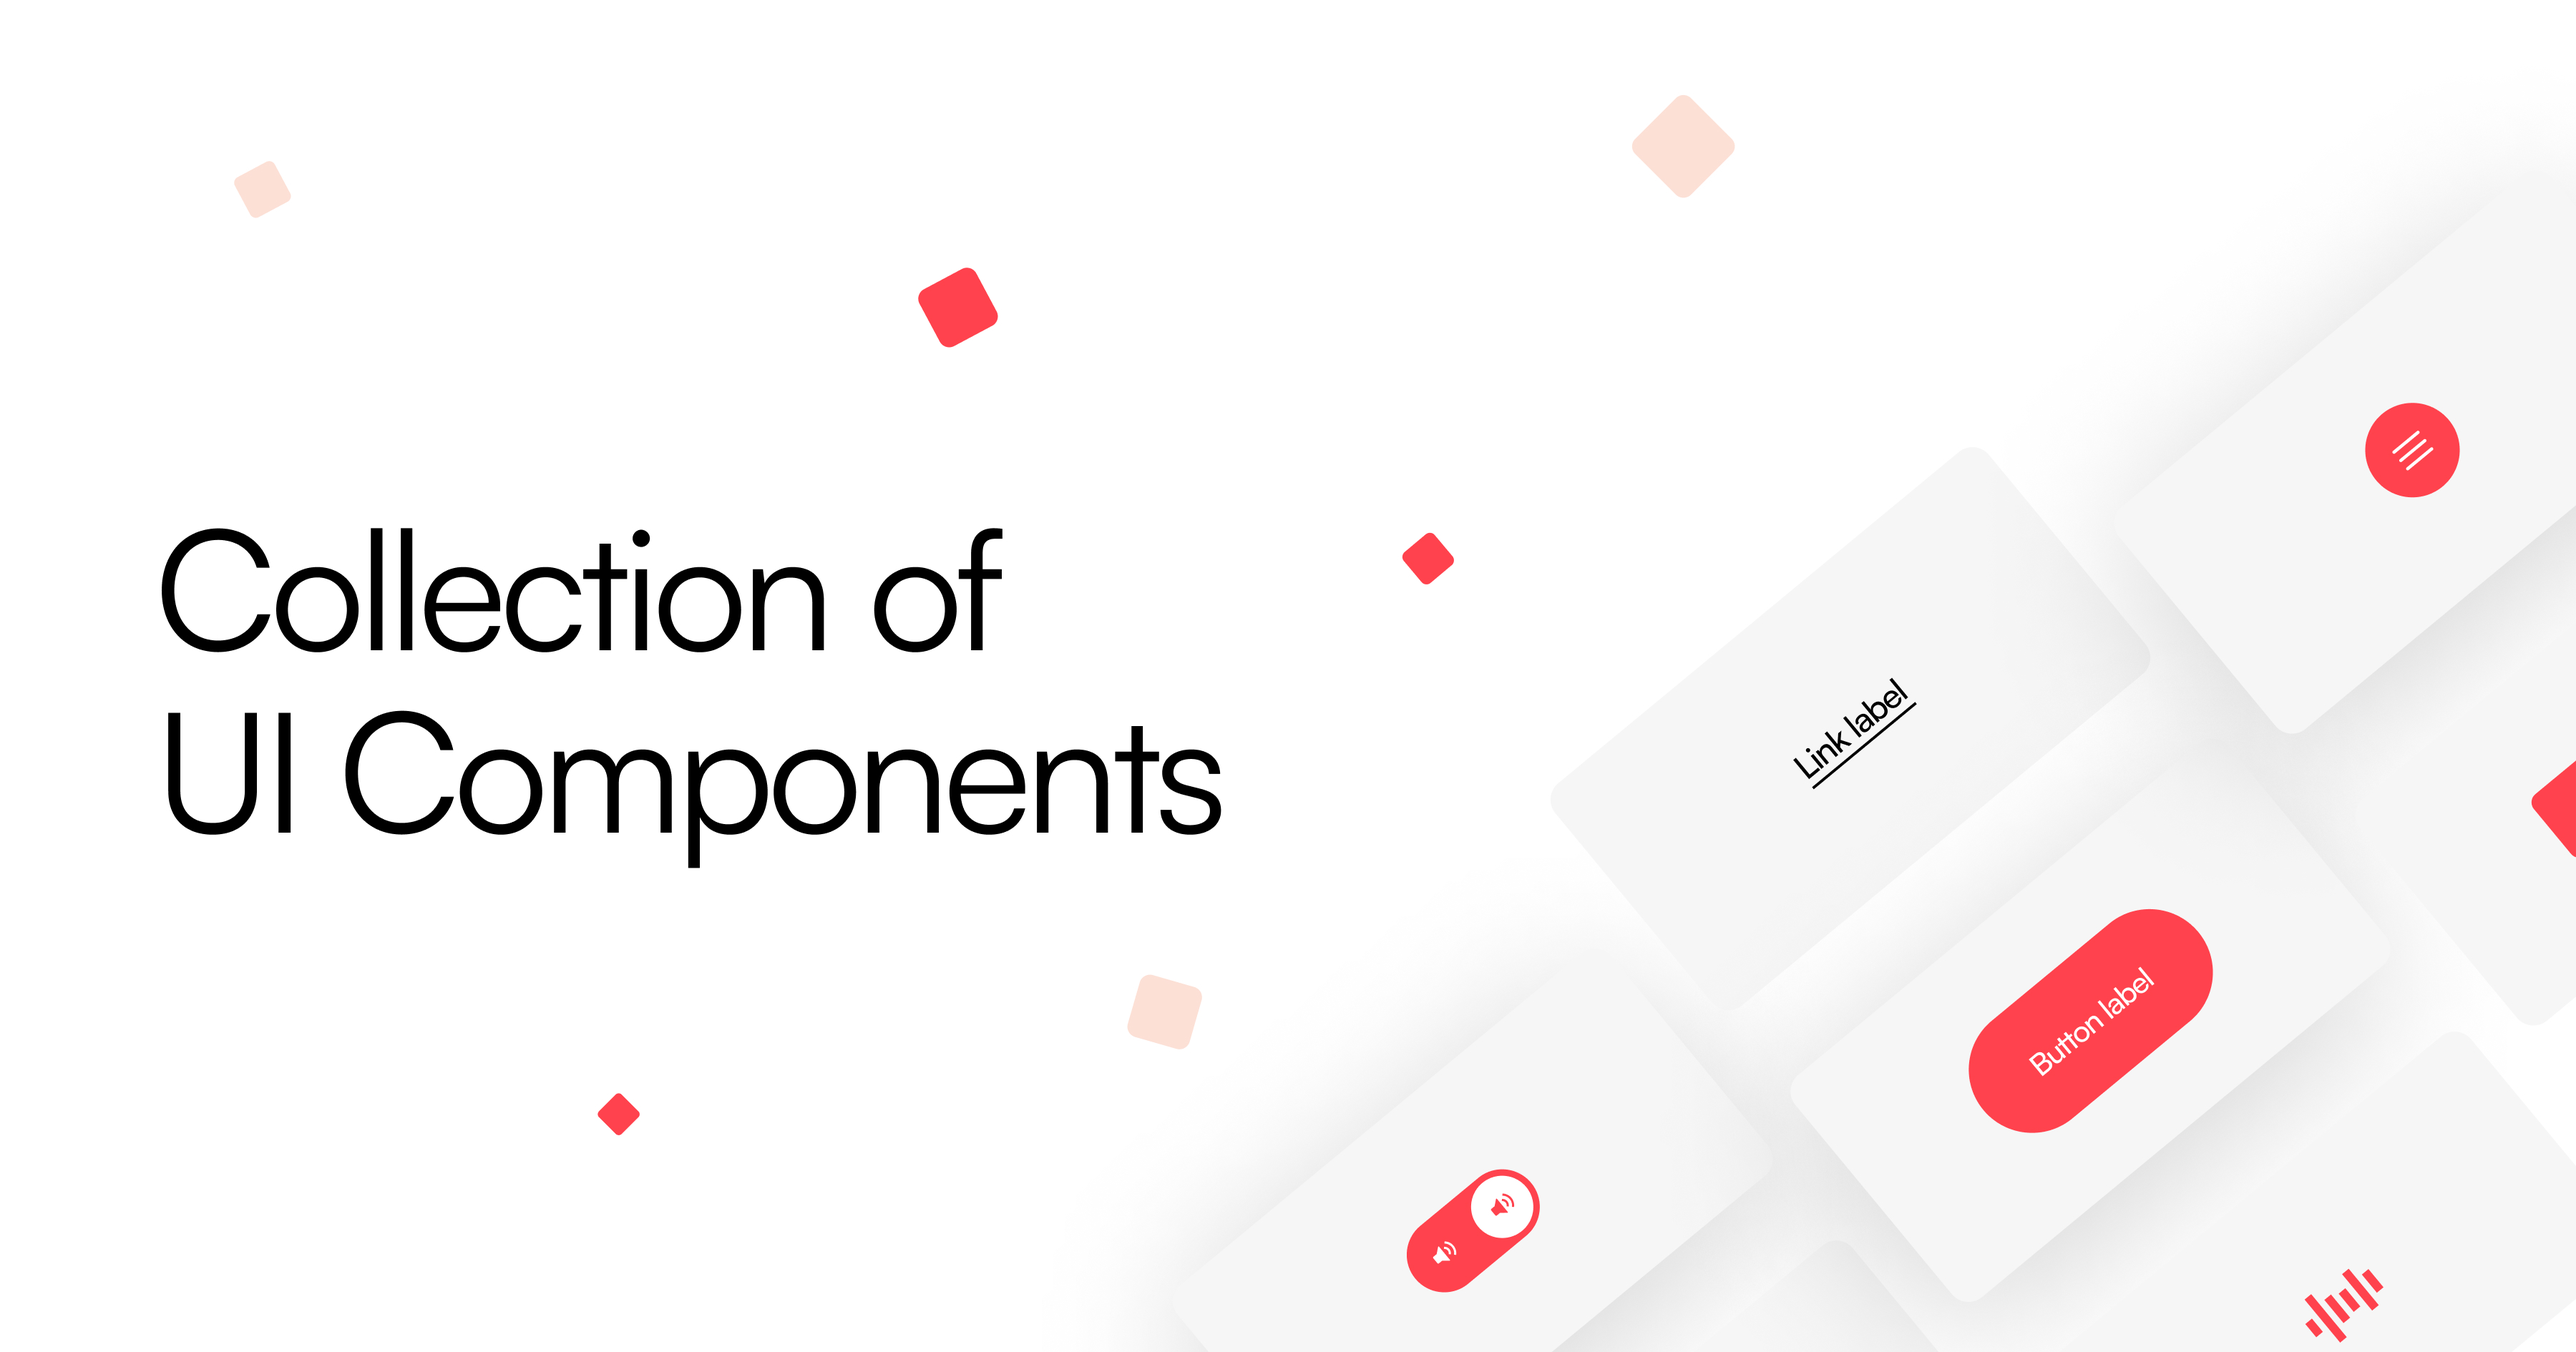
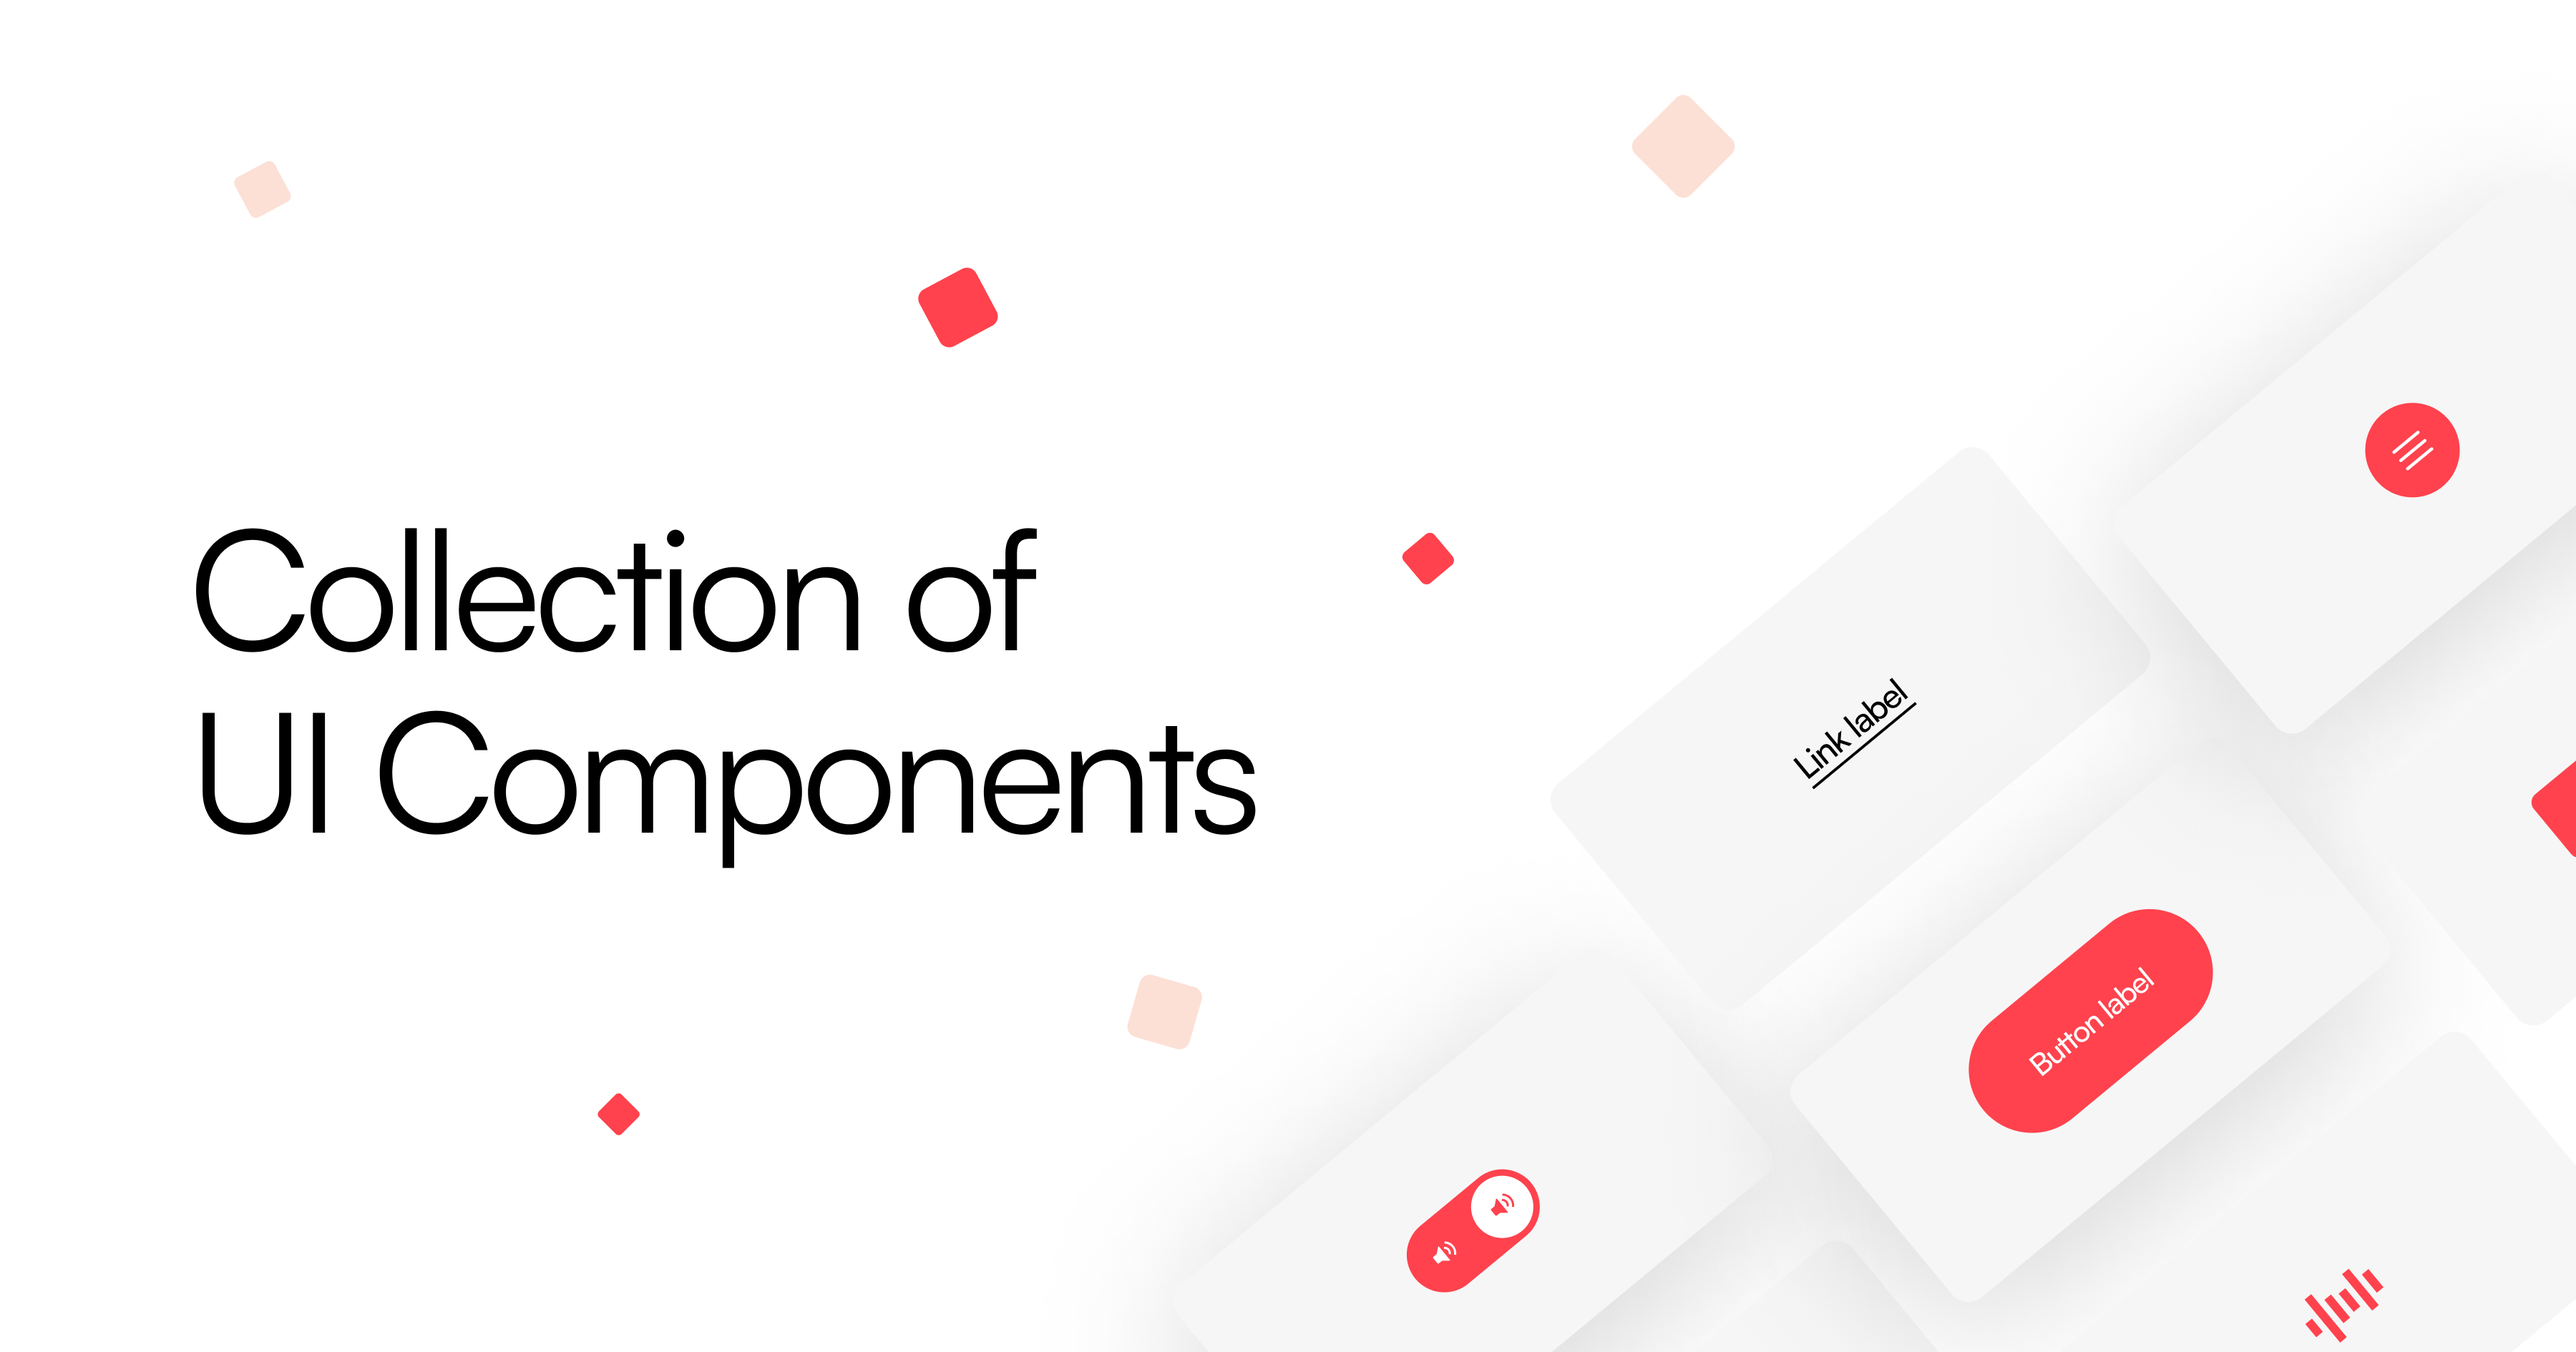
Added ToggleSoundCheckbox

Changed region(s): [[0.0622, 0.5307, 0.4978, 0.6243], [0.0622, 0.3746, 0.4044, 0.4995]]

diff --git a/src/components/UIComponents/ToggleSoundCheckbox/ToggleSoundCheckbox.module.scss b/src/components/UIComponents/ToggleSoundCheckbox/ToggleSoundCheckbox.module.scss
@@ -1,0 +1,154 @@
+@import '../../../references.scss';
+
+.root {
+  position: relative;
+  width: toEm($size-96);
+  height: toEm($size-96 / 2);
+  border-radius: toEm($size-64);
+  background-color: $color-red;
+  cursor: pointer;
+  overflow: hidden;
+
+  @media (min-width: $breakpoint-tablet) {
+    width: toEm($size-136);
+    height: toEm($size-136 / 2);
+  }
+
+  .input {
+    position: absolute;
+    width: 0;
+    height: 0;
+    opacity: 0;
+  }
+
+  .marker {
+    position: absolute;
+    top: 0;
+    left: 0;
+    transform: translateX(100%);
+    width: toEm($size-96 / 2);
+    height: toEm($size-96 / 2);
+    border: toEm(4) solid $color-red;
+    border-radius: 50%;
+    transition: transform 0.25s cubic-bezier(0.645, 0.045, 0.355, 1);
+    background-color: $color-white;
+
+    @media (min-width: $breakpoint-tablet) {
+      width: toEm($size-136 / 2);
+      height: toEm($size-136 / 2);
+      border-width: toEm(6);
+    }
+  }
+
+  .input:checked ~ .marker {
+    transform: translateX(0%);
+  }
+
+  span {
+    position: relative;
+    display: inline-flex;
+    justify-content: center;
+    align-items: center;
+    width: toEm($size-96 / 2);
+    height: toEm($size-96 / 2);
+    transition: color 0.3s ease;
+    will-change: transform;
+
+    @media (min-width: $breakpoint-tablet) {
+      width: toEm($size-136 / 2);
+      height: toEm($size-136 / 2);
+    }
+
+    &:nth-child(3) {
+      color: $color-white;
+    }
+    &:nth-child(4) {
+      color: $color-red;
+    }
+
+    svg {
+      width: toEm($size-16);
+      height: toEm($size-16);
+
+      @media (min-width: $breakpoint-tablet) {
+        width: toEm($size-22);
+        height: toEm($size-22);
+      }
+    }
+  }
+
+  .input:checked ~ span {
+    &:nth-child(3) {
+      color: $color-red;
+    }
+    &:nth-child(4) {
+      color: $color-white;
+    }
+  }
+}
+
+// .root {
+//   position: relative;
+//   width: 70px;
+//   height: 35px;
+//   border-radius: 50px;
+//   background-color: #ff424d;
+//   cursor: pointer;
+//   overflow: hidden;
+
+//   input {
+//     position: absolute;
+//     width: 0;
+//     height: 0;
+//     opacity: 0;
+//   }
+
+//   div {
+//     position: absolute;
+//     top: 0;
+//     left: 0;
+//     transform: translateX(100%);
+//     width: 35px;
+//     height: 35px;
+//     border: 3px solid #ff424d;
+//     border-radius: 50%;
+//     transition: transform 0.25s cubic-bezier(0.645, 0.045, 0.355, 1);
+//     background-color: #ffffff;
+//   }
+
+//   input:checked ~ div {
+//     transform: translateX(0%);
+//   }
+
+//   span {
+//     position: relative;
+//     display: inline-flex;
+//     justify-content: center;
+//     align-items: center;
+//     width: 35px;
+//     height: 35px;
+//     transition: color 0.3s ease;
+//     will-change: transform;
+
+//     &:nth-child(3) {
+//       color: #ffffff;
+//     }
+//     &:nth-child(4) {
+//       color: #ff424d;
+//     }
+
+//     svg {
+//       width: 12px;
+//       height: 12px;
+//     }
+//   }
+
+//   input:checked ~ span {
+//     &:nth-child(3) {
+//       color: #ff424d;
+//     }
+//     &:nth-child(4) {
+//       color: #ffffff;
+//     }
+//   }
+// }

diff --git a/src/components/UIComponents/ToggleSoundCheckbox/ToggleSoundCheckbox.tsx b/src/components/UIComponents/ToggleSoundCheckbox/ToggleSoundCheckbox.tsx
@@ -1,0 +1,40 @@
+import css from './ToggleSoundCheckbox.module.scss'
+
+const Component = () => {
+  return (
+    <label className={css.root}>
+      <input className={css.input} type="checkbox" />
+      <div className={css.marker}></div>
+      <span>
+        <svg
+          xmlns="http://www.w3.org/2000/svg"
+          viewBox="0 0 24 24"
+          width="24"
+          height="24"
+        >
+          <path fill="none" d="M0 0h24v24H0z" />
+          <path
+            fill="currentColor"
+            d="M5.889 16H2a1 1 0 0 1-1-1V9a1 1 0 0 1 1-1h3.889l5.294-4.332a.5.5 0 0 1 .817.387v15.89a.5.5 0 0 1-.817.387L5.89 16zm13.517 4.134l-1.416-1.416A8.978 8.978 0 0 0 21 12a8.982 8.982 0 0 0-3.304-6.968l1.42-1.42A10.976 10.976 0 0 1 23 12c0 3.223-1.386 6.122-3.594 8.134zm-3.543-3.543l-1.422-1.422A3.993 3.993 0 0 0 16 12c0-1.43-.75-2.685-1.88-3.392l1.439-1.439A5.991 5.991 0 0 1 18 12c0 1.842-.83 3.49-2.137 4.591z"
+          />
+        </svg>
+      </span>
+      <span>
+        <svg
+          xmlns="http://www.w3.org/2000/svg"
+          viewBox="0 0 24 24"
+          width="24"
+          height="24"
+        >
+          <path fill="none" d="M0 0h24v24H0z" />
+          <path
+            fill="currentColor"
+            d="M5.889 16H2a1 1 0 0 1-1-1V9a1 1 0 0 1 1-1h3.889l5.294-4.332a.5.5 0 0 1 .817.387v15.89a.5.5 0 0 1-.817.387L5.89 16zm14.525-4l3.536 3.536-1.414 1.414L19 13.414l-3.536 3.536-1.414-1.414L17.586 12 14.05 8.464l1.414-1.414L19 10.586l3.536-3.536 1.414 1.414L20.414 12z"
+          />
+        </svg>
+      </span>
+    </label>
+  )
+}
+
+export default Component

diff --git a/src/components/listSection/ListSection.tsx b/src/components/listSection/ListSection.tsx
@@ -1,6 +1,7 @@
 import css from './ListSection.module.scss'
 import { merge } from '../../helpers/merge'
 import Container, { EContainerSize } from '../container/Container'
+import components from '../UIComponents'
 
 interface IProps {
   className?: string
@@ -10,18 +11,19 @@ const ListSection = (props: IProps) => {
   return (
     <div className={merge([css.root, props.className])}>
       <Container size={EContainerSize.SMALL}>
-        <h1 className={css.title}>Collection of reusable<br />UI Components</h1>
+        <h1 className={css.title}>
+          Collection of reusable
+          <br />
+          UI Components
+        </h1>
       </Container>
       <Container className={css.gridContainer} size={EContainerSize.LARGE}>
         <ul className={css.grid}>
-          <li className={css.gridItem}></li>
-          <li className={css.gridItem}></li>
-          <li className={css.gridItem}></li>
-          <li className={css.gridItem}></li>
-          <li className={css.gridItem}></li>
-          <li className={css.gridItem}></li>
-          <li className={css.gridItem}></li>
-          <li className={css.gridItem}></li>
+          {components.map((Component, i) => (
+            <li className={css.gridItem} key={i}>
+              <Component />
+            </li>
+          ))}
         </ul>
       </Container>
     </div>

diff --git a/src/atoms/partials/sizes.scss b/src/atoms/partials/sizes.scss
@@ -4,6 +4,7 @@ $size-14: 14;
 $size-16: 16;
 $size-18: 18;
 $size-20: 20;
+$size-22: 22;
 $size-24: 24;
 $size-32: 32;
 $size-40: 40;
@@ -47,6 +48,7 @@ $size-296: 296;
   size16: $size-16;
   size18: $size-18;
   size20: $size-20;
+  size22: $size-22;
   size24: $size-24;
   size32: $size-32;
   size40: $size-40;

diff --git a/src/components/listSection/ListSection.module.scss b/src/components/listSection/ListSection.module.scss
@@ -33,6 +33,7 @@
   grid-template-columns: repeat(1, 1fr);
   row-gap: toEm($size-32);
   column-gap: toEm($size-16);
+  user-select: none;
 
   @media (min-width: $breakpoint-tablet) {
     grid-template-columns: repeat(2, 1fr);

diff --git a/src/components/header/Header.module.scss b/src/components/header/Header.module.scss
@@ -23,7 +23,6 @@
     position: relative;
     width: toEm($size-16);
     height: toEm($size-16);
-    border-radius: toEm($size-296);
 
     &::before,
     &::after {

diff --git a/src/components/UIComponents/index.tsx b/src/components/UIComponents/index.tsx
@@ -1,0 +1,5 @@
+import ToggleSoundCheckbox from './ToggleSoundCheckbox/ToggleSoundCheckbox'
+
+const components = [ToggleSoundCheckbox]
+
+export default components
